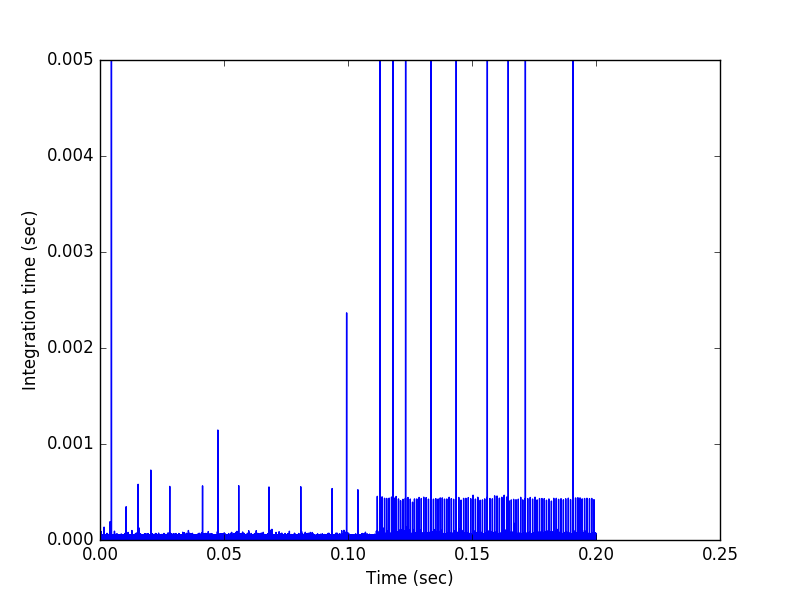
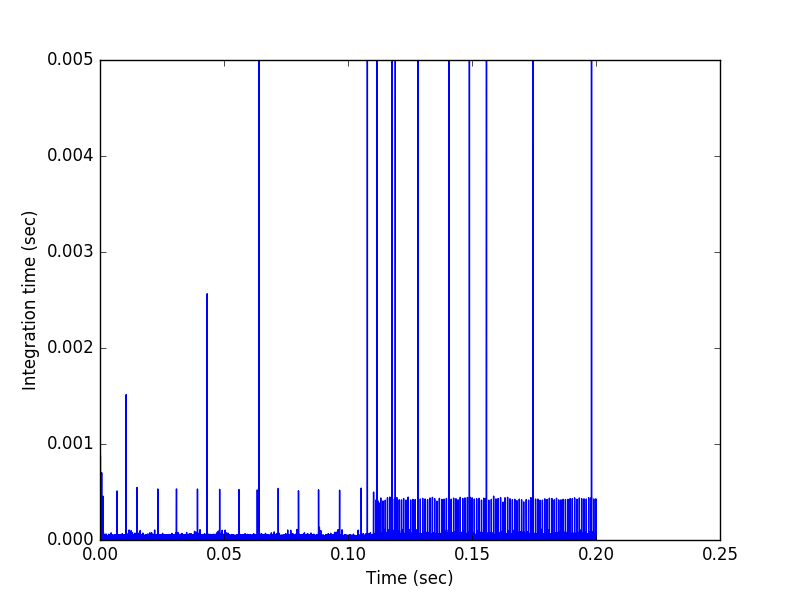
Troubleshooting...

Changed region(s): [[0.125, 0.09, 0.75, 0.9]]

diff --git a/Stiffness_CO_H2_rogers_6_21_17_validation.py b/Stiffness_CO_H2_rogers_6_21_17_validation.py
@@ -163,12 +163,12 @@ normweights = wi, wj
 # Define the range of the computation
 dt = 1.e-8
 tstart = 0
-tstop = 0.2
+tstop = 0.05
 tlist = np.arange(tstart, tstop + 0.5 * dt, dt)
 
 # ODE Solver parameters
-abserr = 1.0e-13
-relerr = 1.0e-11
+abserr = 1.0e-14
+relerr = 1.0e-12
 
 # Load the initial conditions from the PaSR files
 pasrarrays = []
